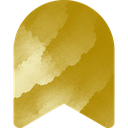
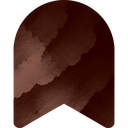
style(série): marque-page chocolat

diff --git a/components/ui/BonusPill.tsx b/components/ui/BonusPill.tsx
@@ -1,10 +1,8 @@
 /**
  * BonusPill — mes marque-pages sur ce livre (3 par livre), la même gélule
- * que la série de l'accueil, en version marque-page : le marque-page beurre
- * aquarelle, le nombre qu'il en reste.
- *
- * Le beurre ne se lit pas en texte sur le verre clair (1,2:1) : il colore le
- * marque-page, et le nombre reste en chocolat.
+ * que la série de l'accueil, en version marque-page : le marque-page
+ * chocolat à l'aquarelle, à bout rond (Lea, 2026-10-09), le nombre qu'il en
+ * reste.
  */
 
 import React from 'react';
